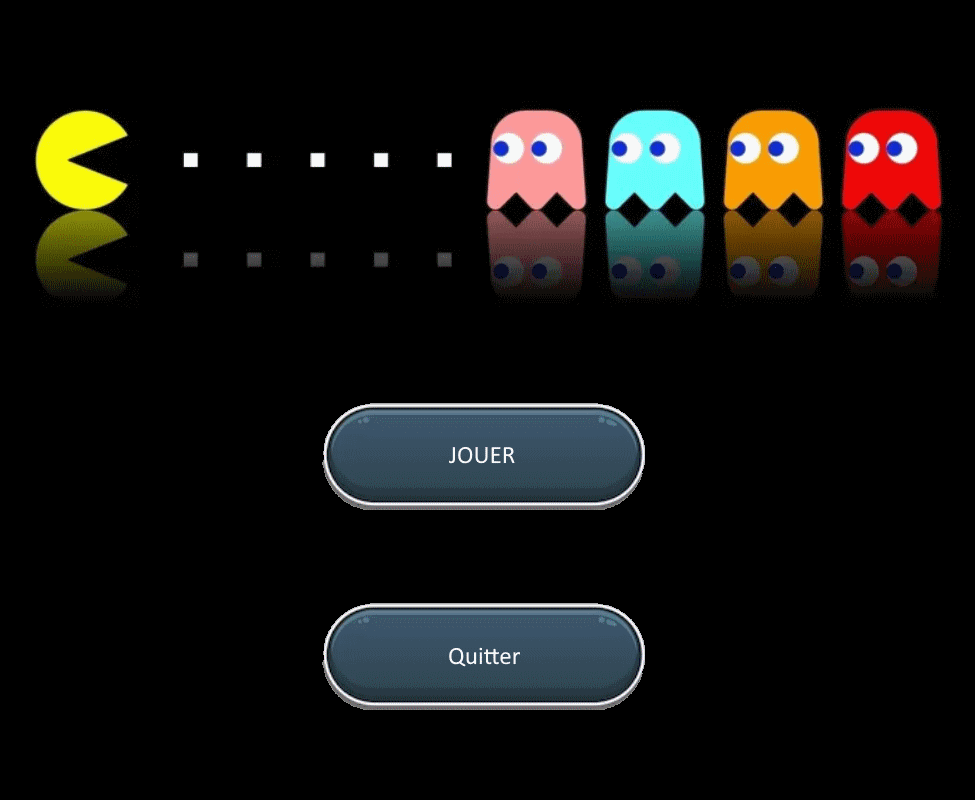
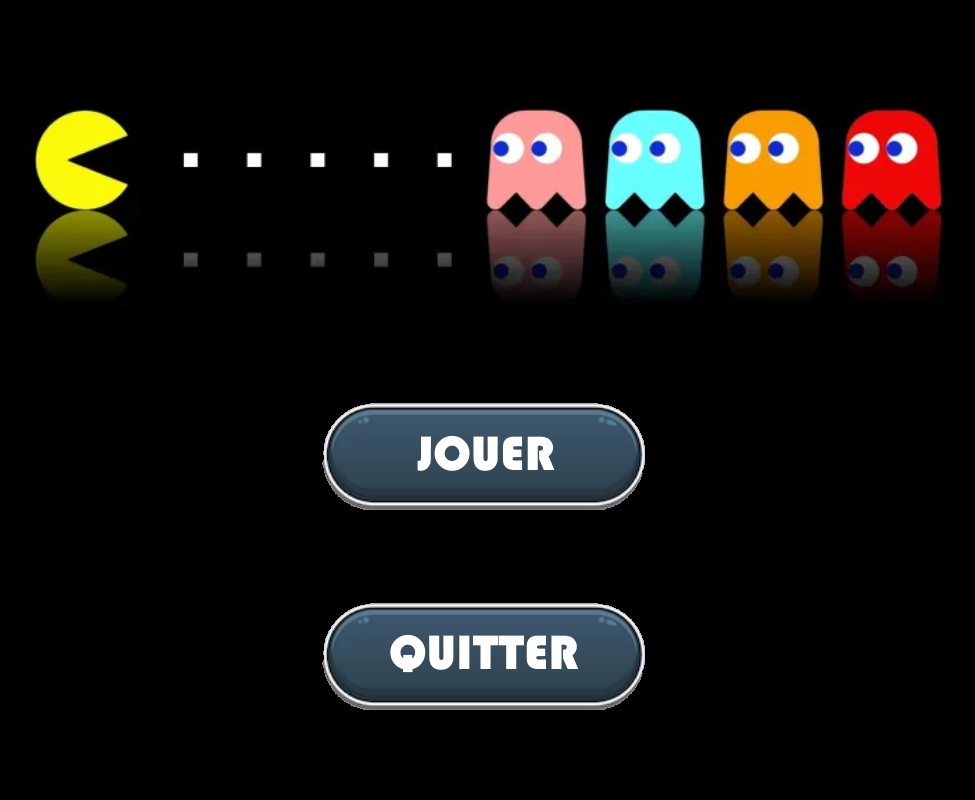
Retour menu après une mort

Changed region(s): [[0.4, 0.7812, 0.6154, 0.8438], [0.4308, 0.5312, 0.5846, 0.5938]]

diff --git a/pacmanwindow.cpp b/pacmanwindow.cpp
@@ -11,8 +11,7 @@ PacmanWindow::PacmanWindow(QWidget *pParent, Qt::WindowFlags flags):QFrame(pPare
     initTimer();
     initMenu();
 
-    setWindowTitle("Pacman");
-    SetWindowDisplayAffinity(GetConsoleWindow(), 1);
+    setWindowTitle("Pacman");//Titre de la fenêtre
 
     QIcon myIcon("./data/icon.png"); // Créer un objet QIcon à partir de l'image
     setWindowIcon(myIcon); // Définir l'icône de la fenêtre
@@ -101,10 +100,10 @@ void PacmanWindow::handleTimerAffichage()
 
 void PacmanWindow::finDeJeu(){
 
-    QTimer::singleShot(3000, this, &PacmanWindow::close);
+    QTimer::singleShot(3000, this, initMenu);
     etatJeu = FIN;
-    if (timerJeu!= nullptr)//Si le timer Jeu a été crée on arrête le timer du jeu
-        timerJeu->stop();
+    timerJeu->stop();
+    animation=false;
     update();
 }
 
@@ -162,6 +161,12 @@ void PacmanWindow::ajoutFantome() {
 void PacmanWindow::retraitFantome() {
 
     jeu.RetraitFantome();
+}
+
+void PacmanWindow::lancerTimerJeu()
+{
+    timerJeu->start(timerJeuInterval);
+    animation=true;
 }
 
 PacmanButton::PacmanButton(const QString &text, QWidget *parent) : QPushButton(text,parent)
@@ -235,8 +240,12 @@ bool PacmanWindow::afficheJeu(QPainter* painter)
 
     painter->drawPixmap(jeu.getPacmanX()*largeurCase, (jeu.getPacmanY()+1)*hauteurCase, p);
     // prochaine image du pacman
-    imagePacman++;
-    imagePacman%=4;
+    if (animation)//si l'animation est activée
+    {
+        imagePacman++;
+        imagePacman%=4;
+    }
+
     
     return true;
 
@@ -306,8 +315,6 @@ bool PacmanWindow::initJeu()
     btnFin->show();
     btnQuitter->hide();
     btnLancerJeu->hide();
-
-    timerJeu->start(timerJeuInterval);//start du timerJeu
     
     this->setStyleSheet("background-color: rgb(80, 80, 80);");//Couleur de fond
 
@@ -319,9 +326,11 @@ bool PacmanWindow::initJeu()
     int largeurCase = pixmapMur.width();
     int hauteurCase = pixmapMur.height();
 
-    resize(jeu.getNbCasesX()*largeurCase, jeu.getNbCasesY()*(hauteurCase+2));
+    resize(jeu.getNbCasesX()*largeurCase, jeu.getNbCasesY()*(hauteurCase+2));//redimensionne la fenetre
 
-    update();
+     QTimer::singleShot(2000, this, lancerTimerJeu); // lance le timer Jeu  après 2s
+
+
 
     return true;
 }
@@ -331,8 +340,13 @@ bool PacmanWindow::initMenu()
     etatJeu = MENU;
 
     this->move(100, 100);
+    this->setStyleSheet("background-color: rgb(0, 0, 0);");//Couleur de fond
     resize(976,800);
 
+    btnPause->hide();
+    btnFin->hide();
+    btnAjoutFantome->hide();
+    btnRetraitFantome->hide();
     btnLancerJeu->show();
     btnQuitter->show();
     
@@ -354,7 +368,7 @@ bool PacmanWindow::initBtn()
 
     btnQuitter = new PacmanButton("", this);
     btnQuitter->setGeometry(318,601,330,110);
-    connect(btnQuitter, &QPushButton::clicked, this, &PacmanWindow::finDeJeu);
+    connect(btnQuitter, &QPushButton::clicked, this, &PacmanWindow::close);
     btnQuitter->setStyleSheet("background-color: rgba(0,0,0,0); border: none;");
     btnQuitter->hide();
 

diff --git a/pacmanwindow.hpp b/pacmanwindow.hpp
@@ -27,20 +27,25 @@ class PacmanWindow : public QFrame
 
     QTimer *timerAffichage, *timerJeu;//timer 
     int timerAffichageInterval=40, timerJeuInterval=20;//interval des timers
+    bool animation=false;//variable qui définit si les animations sont activées ou non
 
     QString PacmanFont;//Police
 
   public:
     PacmanWindow(QWidget *pParent=0, Qt::WindowFlags flags=Qt::WindowFlags());
+    //méthodes de gestion des timers:
     void handleTimerJeu();
     void handleTimerAffichage();
+    void lancerTimerJeu();
+
     void ajoutFantome();
     void retraitFantome();
-    void finDeJeu();
+
+    void finDeJeu();//Méthode qui gère la fin du jeu
     void Pause();//Met sur pause ou sur play le jeu
 
     // méthode d'initialisation:
-    bool initJeu();
+    bool initJeu();// initialise le jeu
     bool initBtn();// initialise les boutons et les caches
     bool initImages();// initialise les images
     bool initTimer();// initialise les timers
@@ -53,8 +58,8 @@ class PacmanWindow : public QFrame
     bool affichageFin(QPainter*);
     bool affichageMenu(QPainter*);
 
-
     void screenShot();
+
   protected:
     void paintEvent(QPaintEvent *);
     void keyPressEvent(QKeyEvent *);
